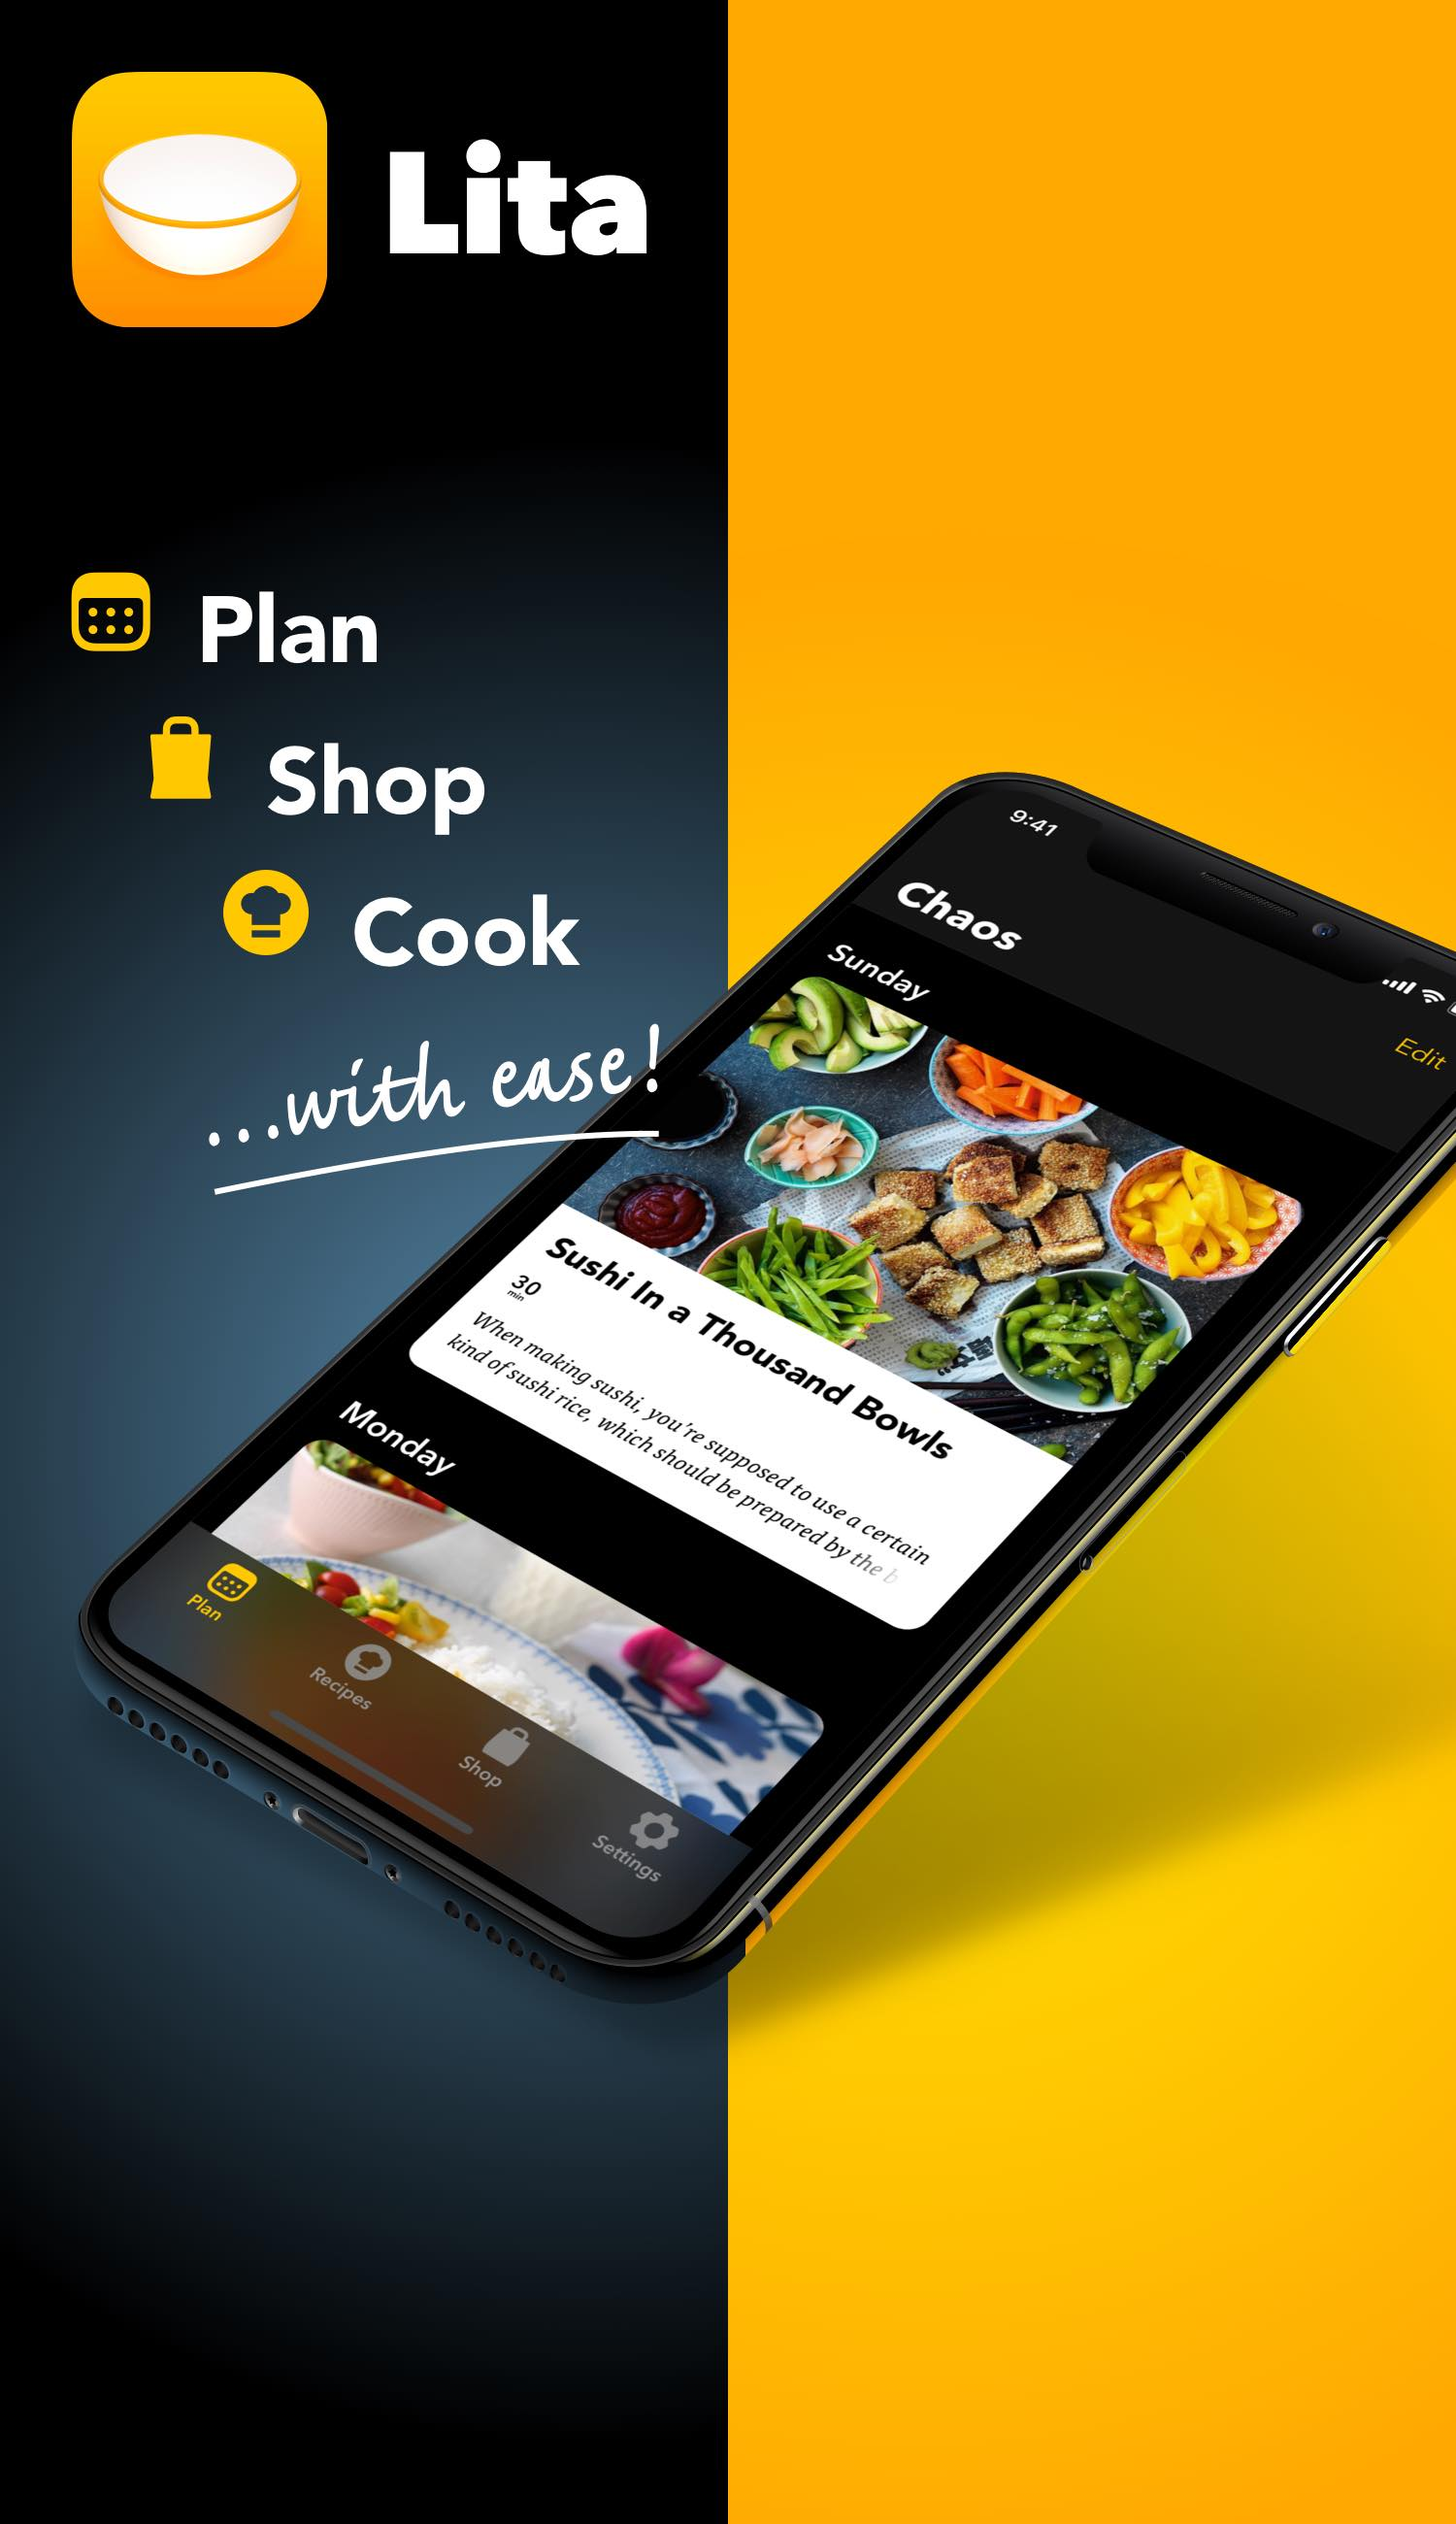
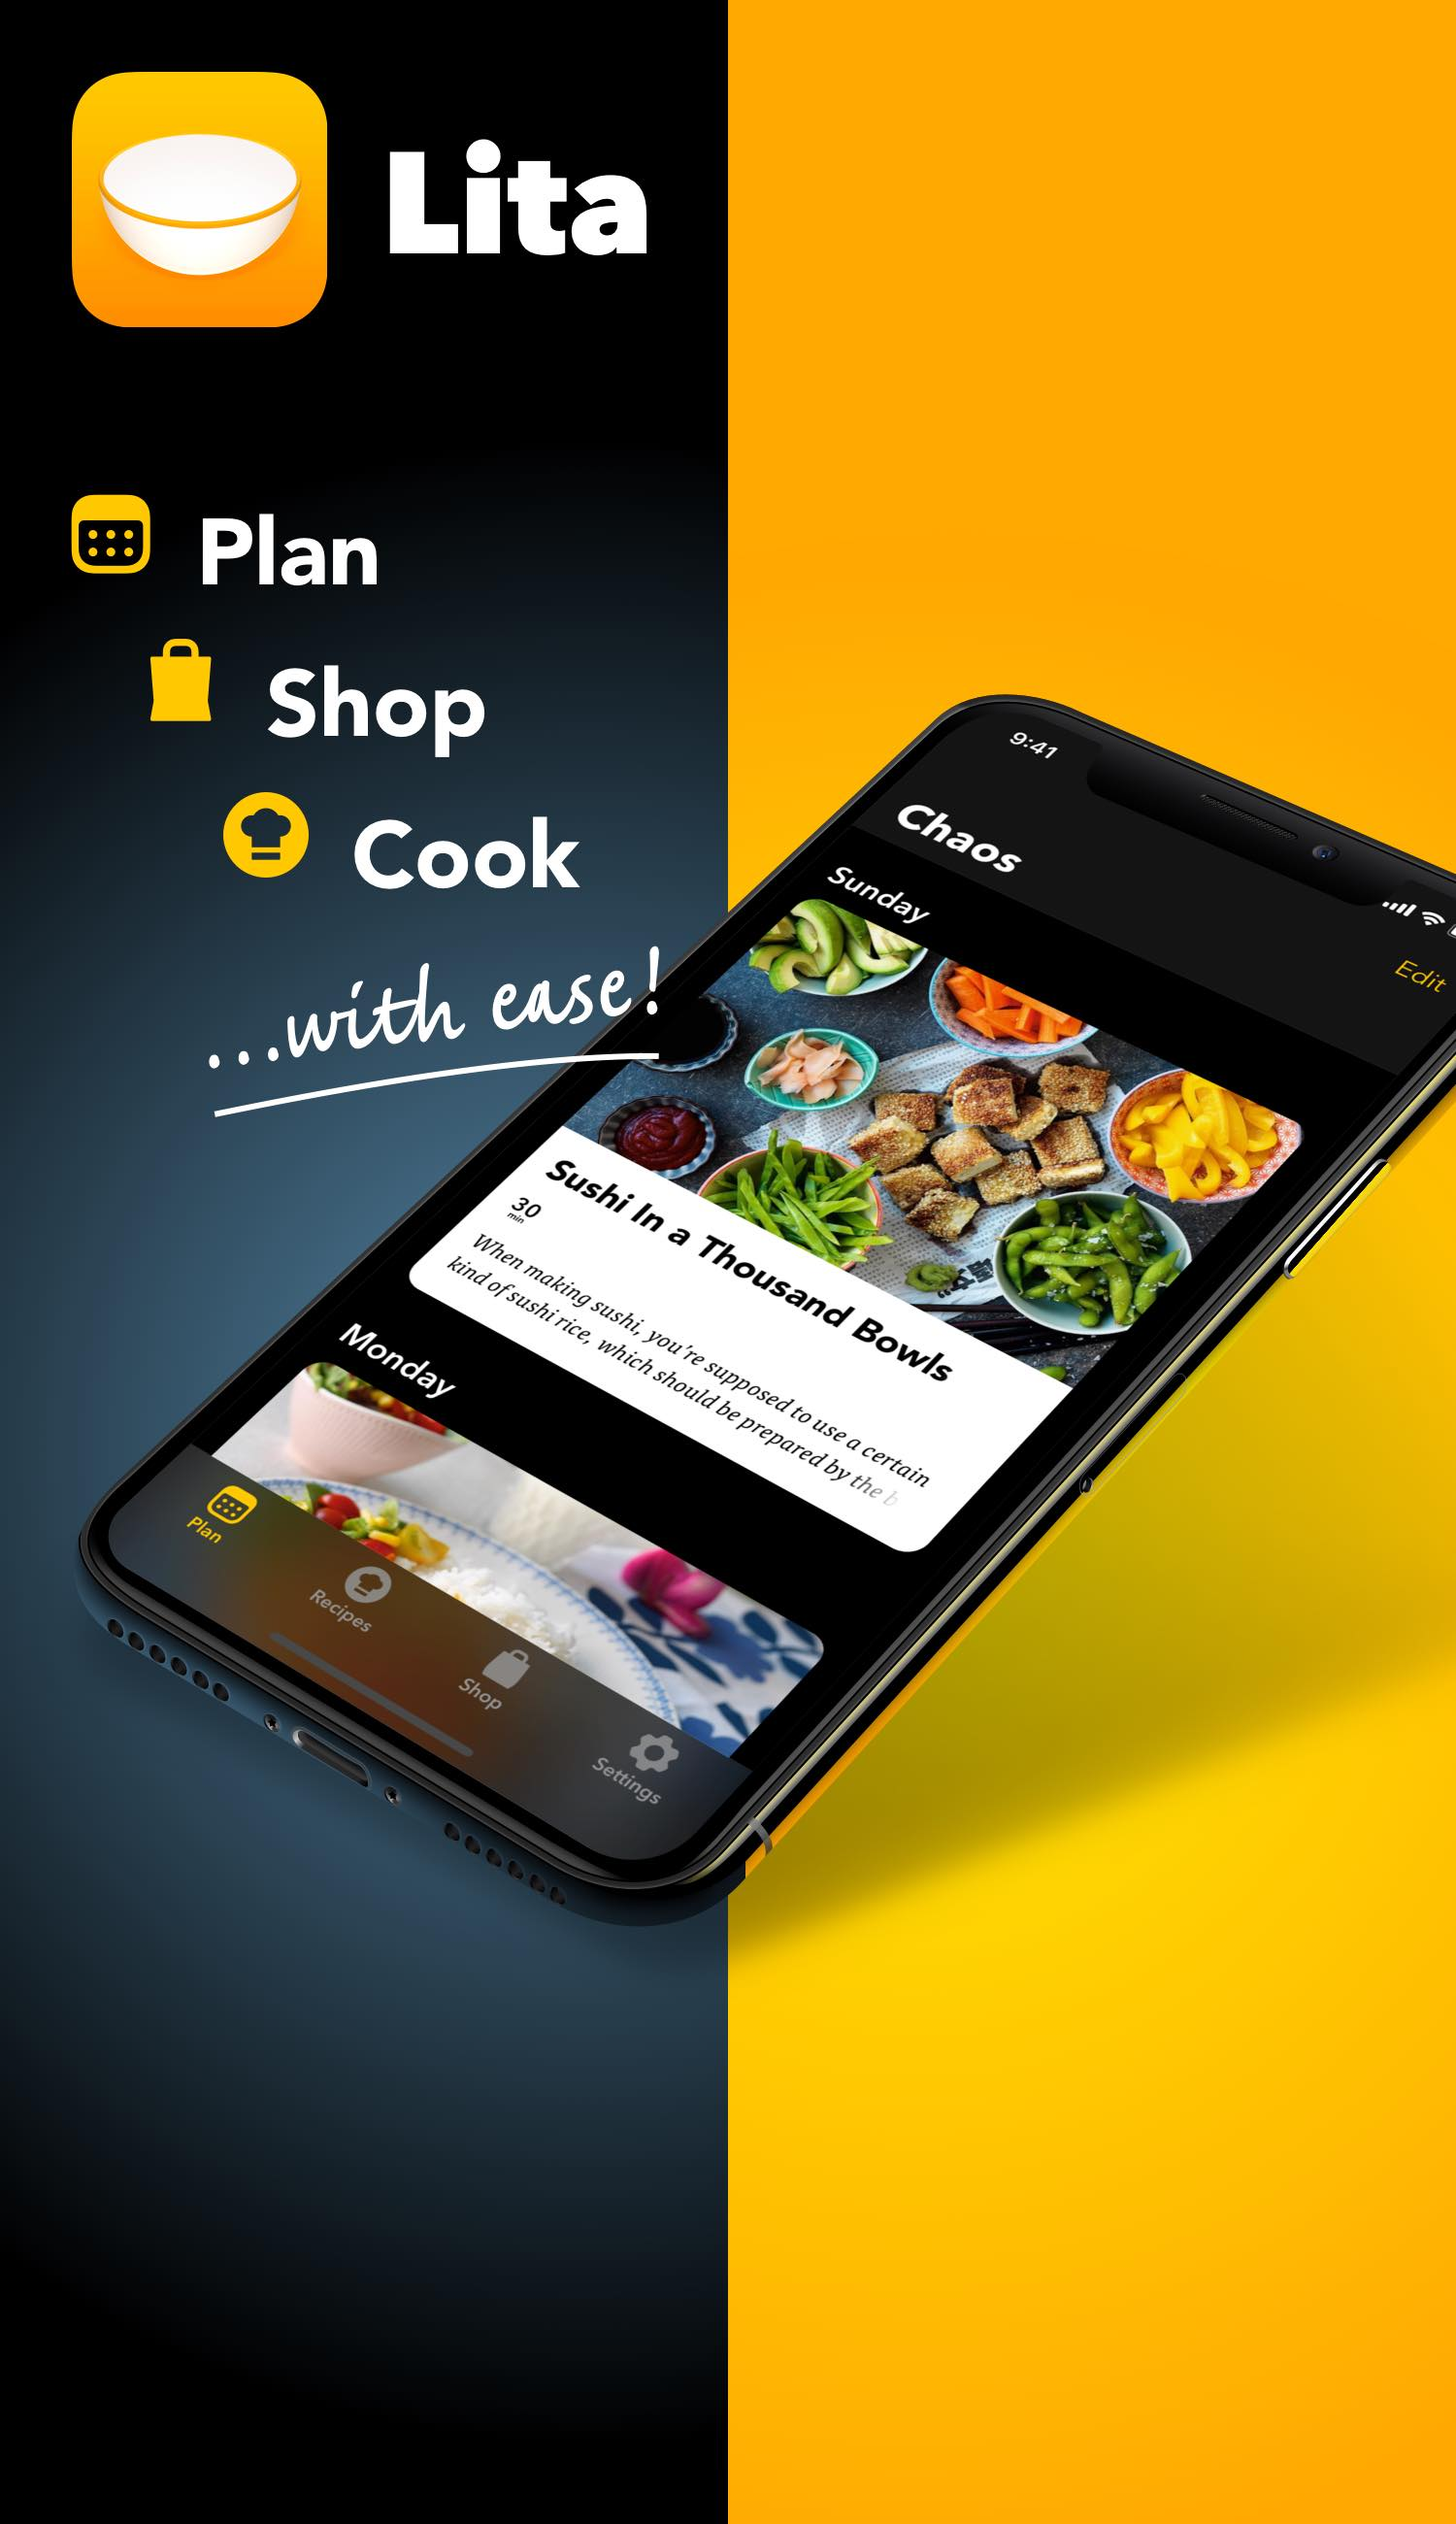
Tweak header & safe area

Changed region(s): [[0.0307, 0.1869, 1.0, 0.81]]

diff --git a/styles.css b/styles.css
@@ -168,10 +168,14 @@ footer p, a {
   color: #000;
   opacity: 0.5;
   font: normal 0.6rem "AvenirNext-Regular", Helvetica, sans-serif;
+  padding-left: env(safe-area-inset-left);
+  padding-right: env(safe-area-inset-right);
 }
 
 footer h2 {
   text-align: center;
+  padding-left: env(safe-area-inset-left);
+  padding-right: env(safe-area-inset-right);
 }
 
 .copyright, .apple-notice {
@@ -458,7 +462,7 @@ p {
   }
   
   .gradientbg {
-    min-height: 87vh;
+    min-height: 80vh;
     max-height: auto;
   	background: url(gfx/heroimage-mobile@2x.jpg);
     background-size: 100% auto;
@@ -479,7 +483,7 @@ p {
     padding: 0;
     margin: 0;
     position: absolute;
-    top: 77.5vh;
+    top: 72vh;
     left: 58vw;
     width: 35vw;
     height: 10.294vw;
